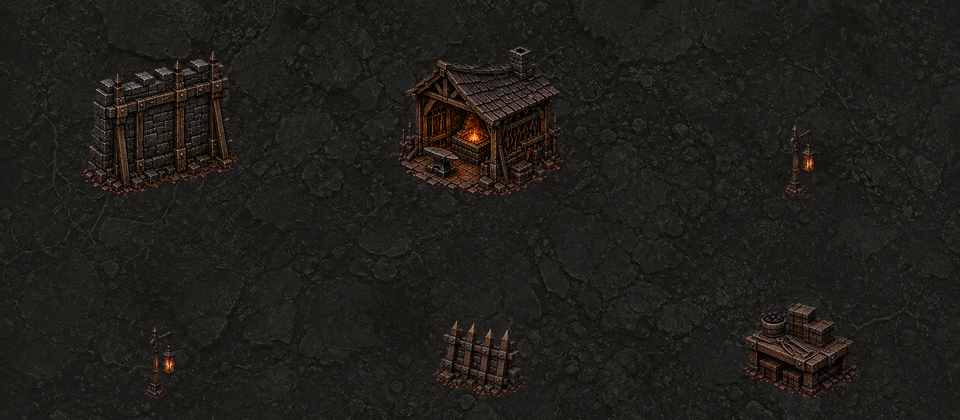
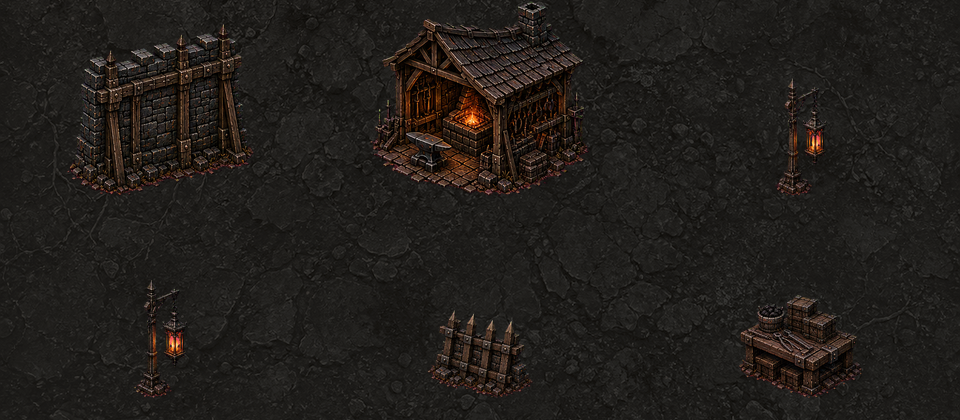
art: calibrate environment kit runtime scale

diff --git a/art/generation/environment-kit/evidence/environment-kit-v2/index.html b/art/generation/environment-kit/evidence/environment-kit-v2/index.html
@@ -101,48 +101,48 @@
         <tr>
           <td>north-wall-solid</td>
           <td>382×351</td>
-          <td>157.81×145</td>
-          <td>48.33</td>
+          <td>187.19×172</td>
+          <td>57.33</td>
           <td class="pass">PASS</td>
           <td class="pass">SAFE FOR VISUAL REVIEW</td>
         </tr>
         <tr>
           <td>forge-workshop</td>
           <td>383×340</td>
-          <td>168.97×150</td>
-          <td>70.15</td>
+          <td>219.66×195</td>
+          <td>91.19</td>
           <td class="pass">PASS</td>
           <td class="pass">SAFE FOR VISUAL REVIEW</td>
         </tr>
         <tr>
           <td>lantern-a</td>
           <td>171×383</td>
-          <td>32.15×72</td>
-          <td>21.99</td>
+          <td>52.68×118</td>
+          <td>36.05</td>
           <td class="pass">PASS</td>
           <td class="pass">SAFE FOR VISUAL REVIEW</td>
         </tr>
         <tr>
           <td>lantern-b</td>
           <td>173×382</td>
-          <td>32.61×72</td>
-          <td>20.17</td>
+          <td>53.44×118</td>
+          <td>33.05</td>
           <td class="pass">PASS</td>
           <td class="pass">SAFE FOR VISUAL REVIEW</td>
         </tr>
         <tr>
           <td>barricade</td>
           <td>385×318</td>
-          <td>94.43×78</td>
-          <td>27.96</td>
+          <td>106.54×88</td>
+          <td>31.55</td>
           <td class="pass">PASS</td>
           <td class="pass">SAFE FOR VISUAL REVIEW</td>
         </tr>
         <tr>
           <td>raised-clutter-bench</td>
           <td>384×318</td>
-          <td>114.72×95</td>
-          <td>34.36</td>
+          <td>124.38×103</td>
+          <td>37.25</td>
           <td class="pass">PASS</td>
           <td class="pass">SAFE FOR VISUAL REVIEW</td>
         </tr>
@@ -179,6 +179,21 @@
         deterministic preparation must prove that this is fully remediated
         before any cell can be considered ingress-safe.
       </li>
+      <li>
+        The first independent review passed the source kit at 7.5/10 for a
+        controlled trial but found the initial declared runtime sizes miniature
+        beside the 118px player. The declared heights now use its recommended
+        bands and require a second exact contact-sheet review before runtime
+        promotion.
+      </li>
+      <li>
+        The wall must be a single centered feature with retained tile-backed
+        outer facades; it must never be stretched or visibly repeated.
+      </li>
+      <li>
+        Runtime collision must follow the visible composite masses rather than
+        the audit's narrow alpha-support proxy.
+      </li>
     </ul>
     <h2>Paired negative controls</h2>
     <ul>
@@ -210,9 +225,10 @@
       </figcaption>
     </figure>
     <p>
-      Keep the candidate quarantined. Mechanical prepared-ingress success may
-      make cells eligible for independent visual acceptance, but this record
-      does not authorize runtime or production promotion.
+      Keep the candidate quarantined while the rescaled runtime contact sheet
+      receives a second independent visual review. The first review authorizes a
+      controlled integration trial only at wall 165-180px, forge 185-205px,
+      identical lanterns 110-125px, barricade 80-95px, and bench 95-110px.
     </p>
   </body>
 </html>
